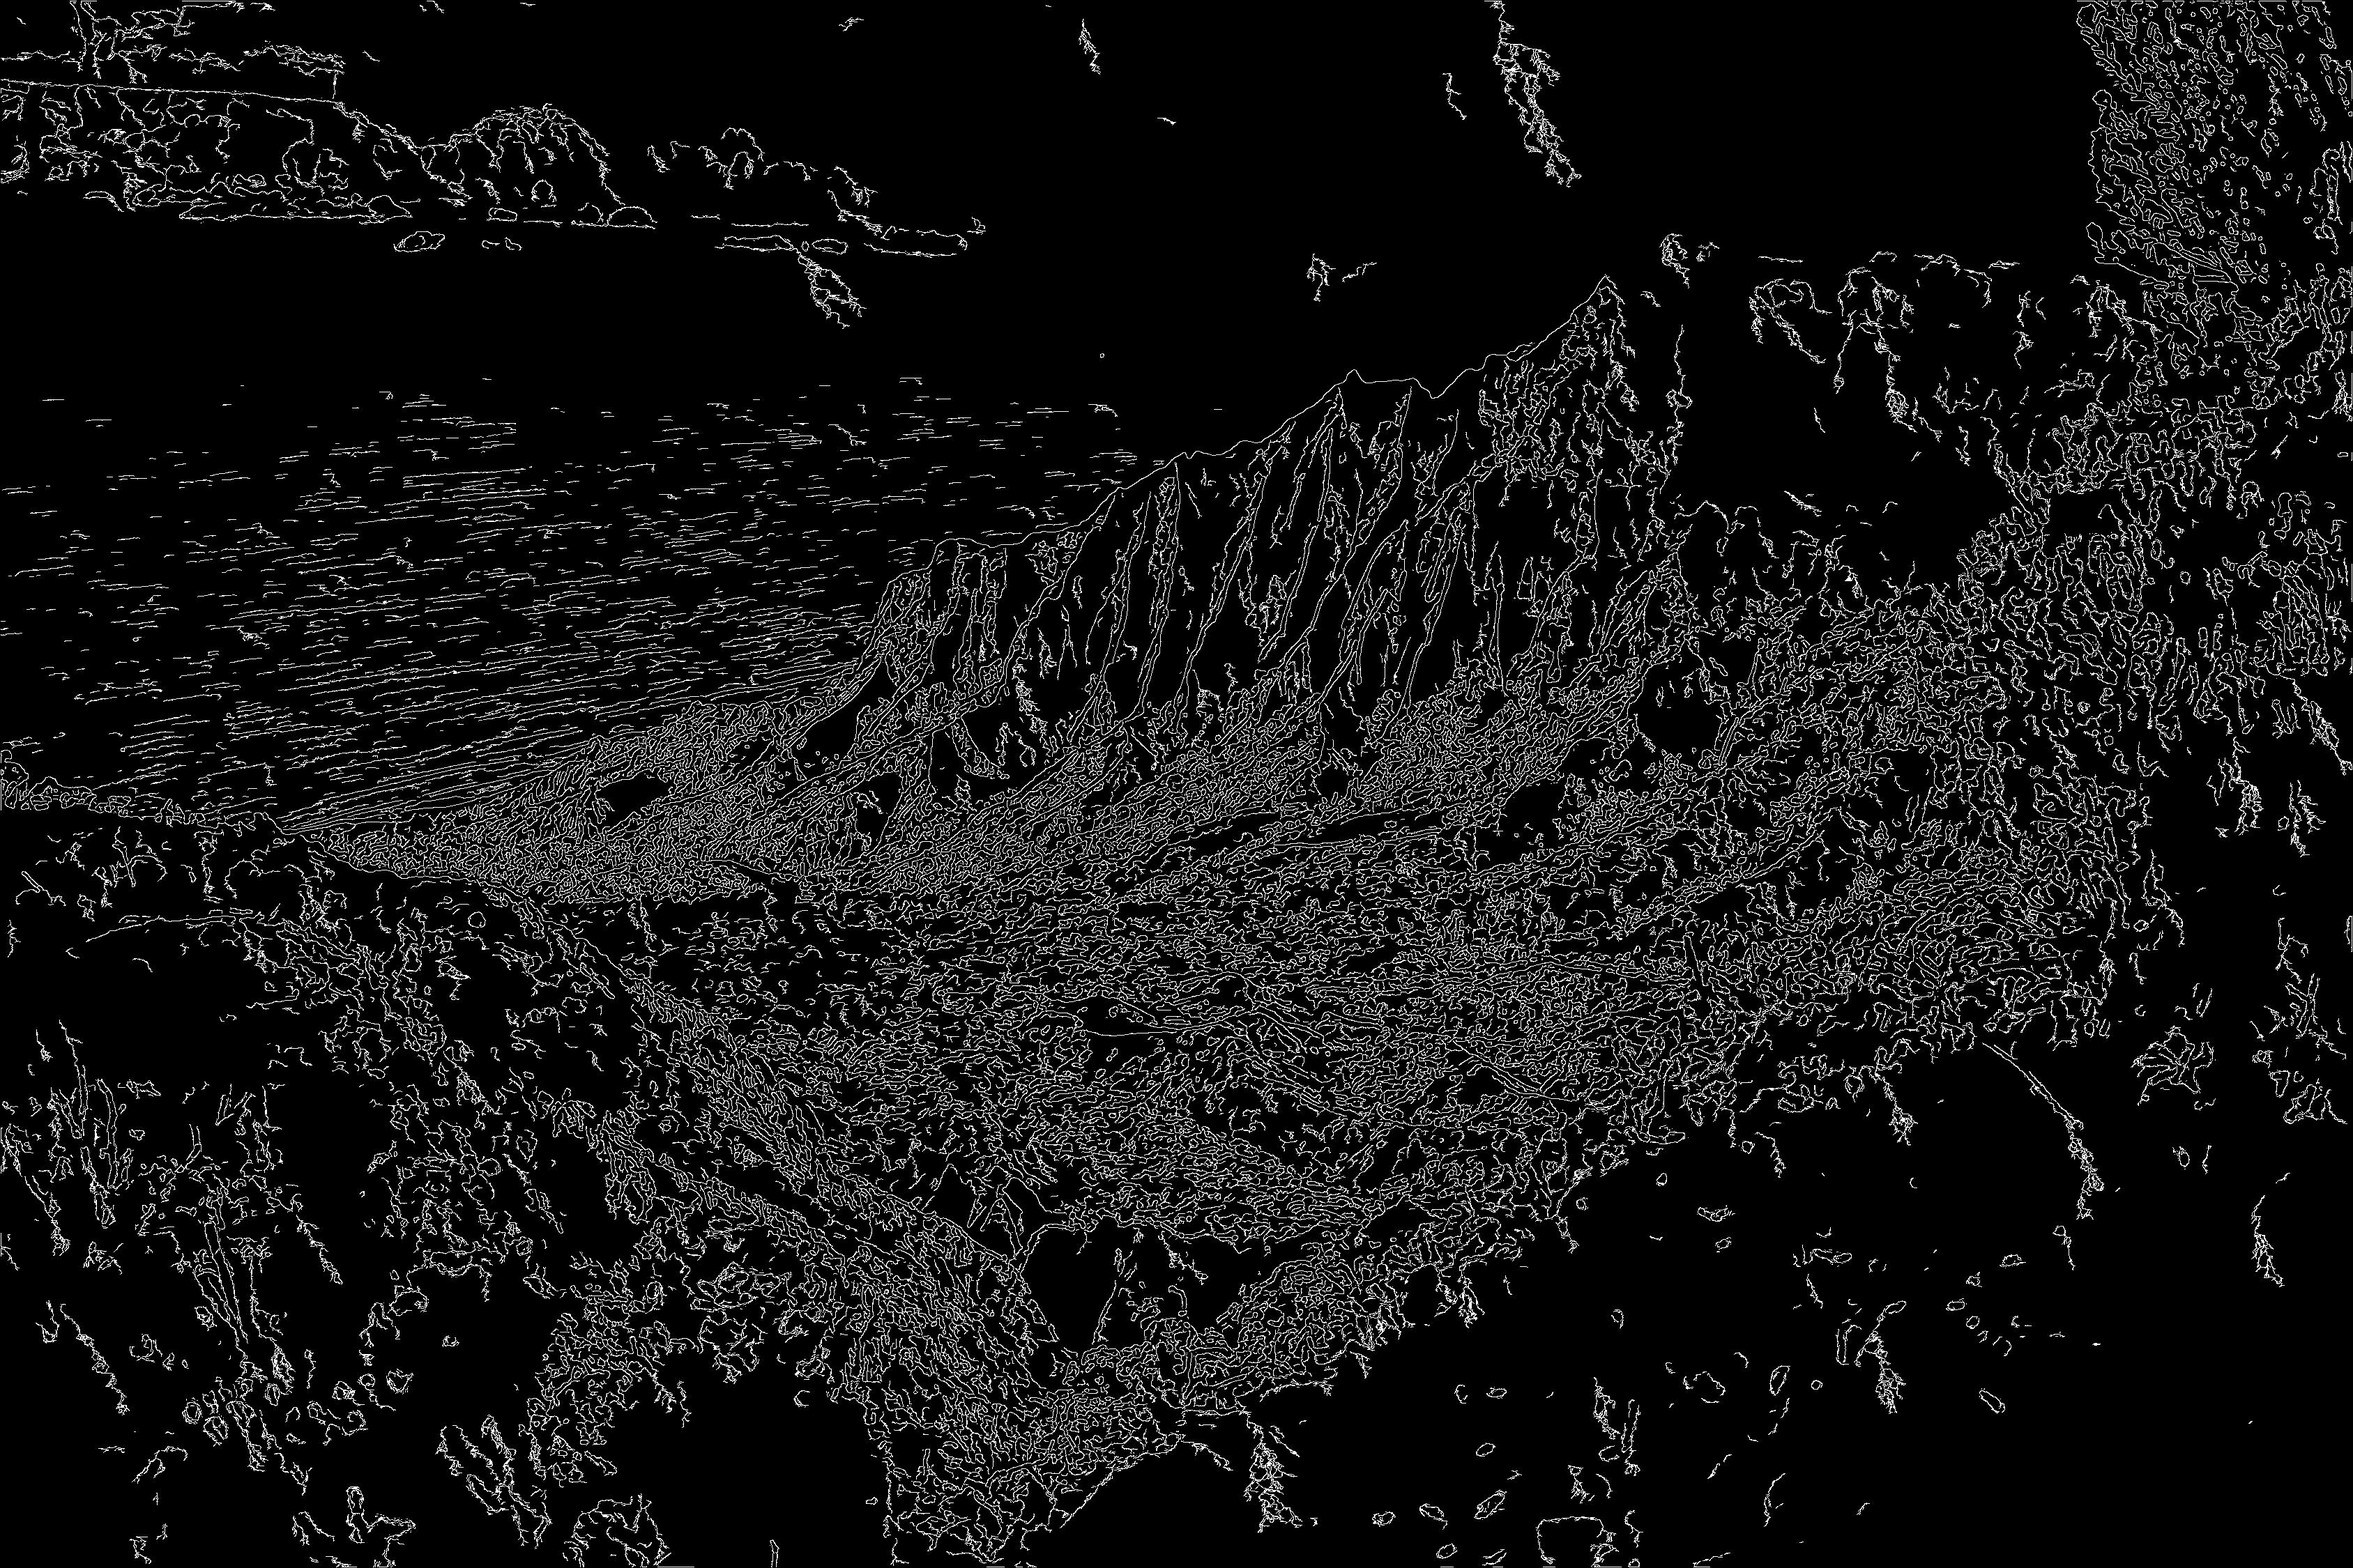
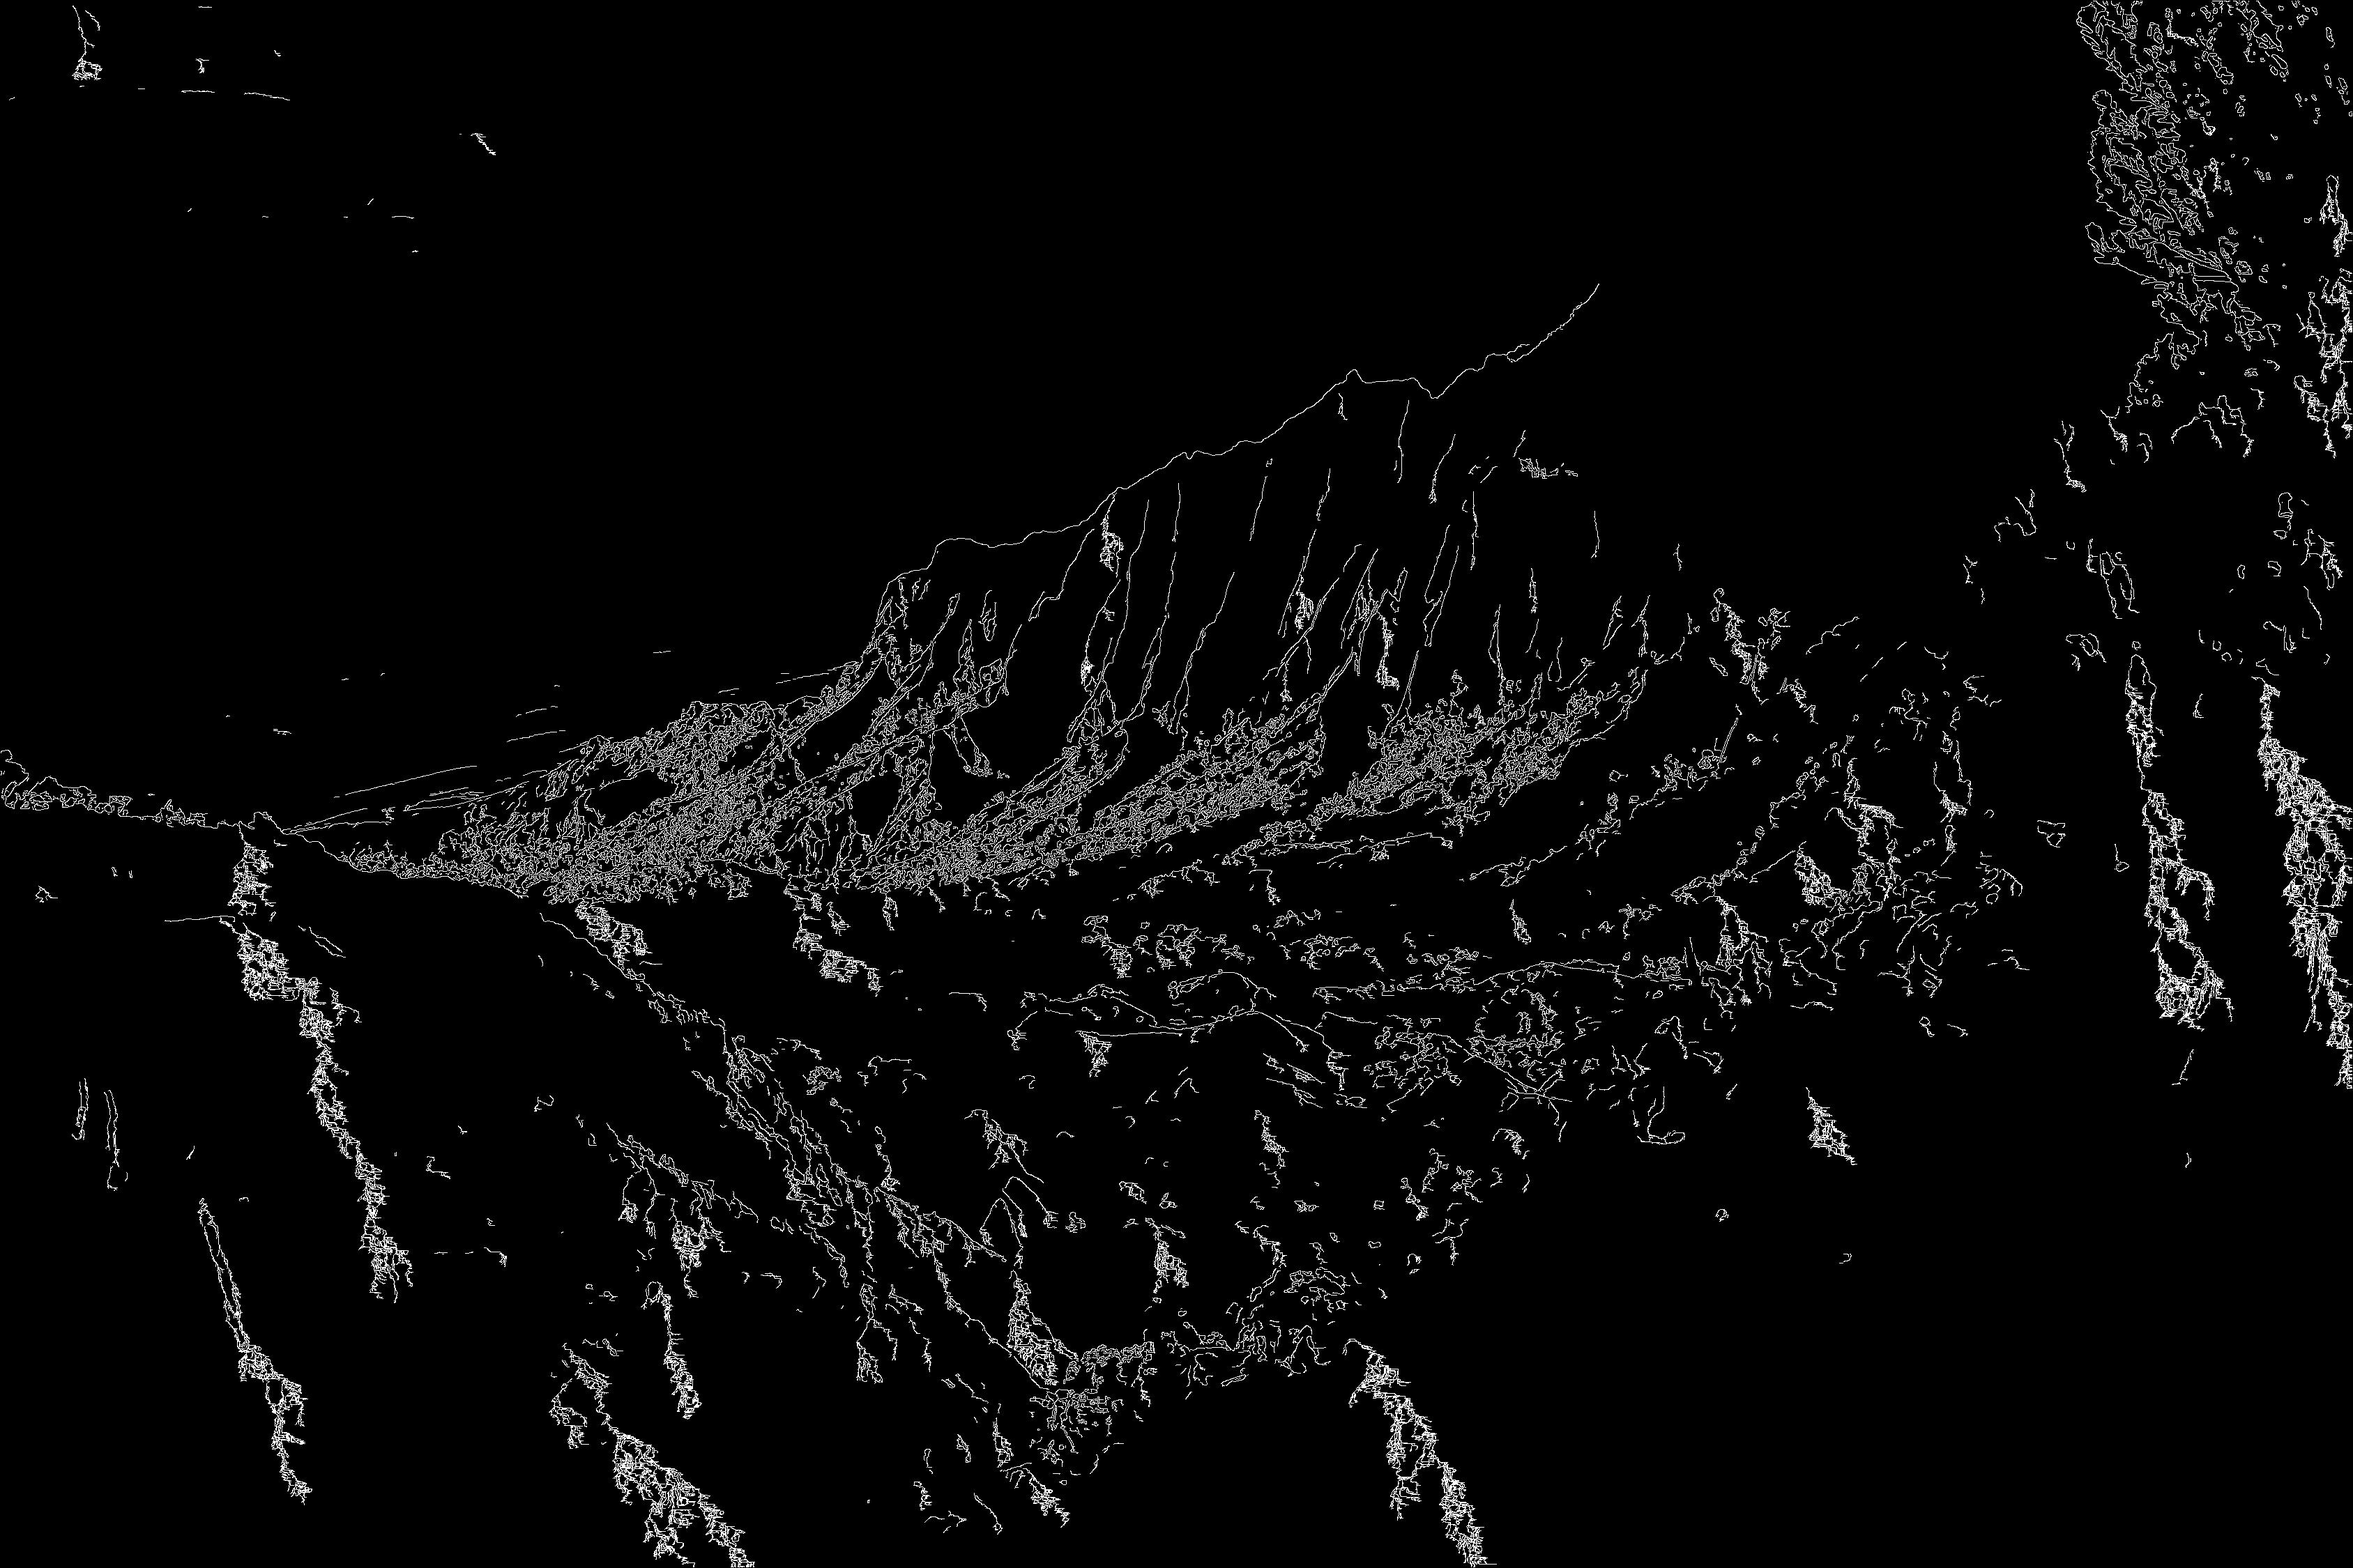
start from center in sobel

diff --git a/main.cpp b/main.cpp
@@ -261,9 +261,7 @@ float gaussian(float x, double sigma) {
 void applyBilateralFilter(BYTE *src, BYTE *dst, int diameter, float sigmaI, float sigmaS) {
     int half = diameter / 2;
     GridIterator iter(PARTITION, 5, PROCID);
-    int count = 0;
     for (std::pair<int,int> ij = iter.next(); ij.first != -1; ij = iter.next()) {
-        count++;
         int i = ij.first;
         int j = ij.second;
         float iFiltered = 0;
@@ -304,30 +302,37 @@ void applySobelFilter(BYTE *src, BYTE *gradient, float *direction) {
     int yFilter[3][3] = {{1, 2, 1}, {0, 0, 0}, {-1, -2, -1}};
     float maxGradient = 0.f;
     float *gradientTemp = new float[PITCH * HEIGHT];
-    for (int i = PARTITION.topPixel; i <= PARTITION.bottomPixel; i++) {
-        for (int j = PARTITION.leftPixel; j <= PARTITION.rightPixel; j++) {
-            if (i == 0 || i == HEIGHT - 1 || j == 0 || j == WIDTH - 1) {
-                continue;
+    GridIterator iter(PARTITION, 1, PROCID);
+    for (std::pair<int,int> ij = iter.next(); ij.first != -1; ij = iter.next()) {
+        int i = ij.first;
+        int j = ij.second;
+        if (i == 0 || i == HEIGHT - 1 || j == 0 || j == WIDTH - 1) {
+            if (iter.shouldCommunicate()) {
+                recvBlocks(src, PARTITION.neighborCount, TAG_OUTPUT_STEP1);
             }
-            float xGradient = 0;
-            float yGradient = 0;
-            for (int ii = 0; ii < 3; ii++) {
-                for (int jj = 0; jj < 3; jj++) {
-                    int neighbor_i = i + ii - 1;
-                    int neighbor_j = j + jj - 1;
-                    xGradient += xFilter[ii][jj] * src[neighbor_i * PITCH + neighbor_j];
-                    yGradient += yFilter[ii][jj] * src[neighbor_i * PITCH + neighbor_j];
-                }
+            continue;
+        }
+        float xGradient = 0;
+        float yGradient = 0;
+        for (int ii = 0; ii < 3; ii++) {
+            for (int jj = 0; jj < 3; jj++) {
+                int neighbor_i = i + ii - 1;
+                int neighbor_j = j + jj - 1;
+                xGradient += xFilter[ii][jj] * src[neighbor_i * PITCH + neighbor_j];
+                yGradient += yFilter[ii][jj] * src[neighbor_i * PITCH + neighbor_j];
             }
-            float grad = sqrtf(xGradient * xGradient + yGradient * yGradient);
+        }
+        float grad = sqrtf(xGradient * xGradient + yGradient * yGradient);
 
-            gradientTemp[i * PITCH + j] = grad;
-            maxGradient = std::max(grad, maxGradient);
+        gradientTemp[i * PITCH + j] = grad;
+        maxGradient = std::max(grad, maxGradient);
 
-            direction[i * PITCH + j] = atan2f(yGradient, xGradient) * 180.f / M_PI;
-            if (direction[i * PITCH + j] < 0) {
-                direction[i * PITCH + j] += 180.f;
-            }
+        direction[i * PITCH + j] = atan2f(yGradient, xGradient) * 180.f / M_PI;
+        if (direction[i * PITCH + j] < 0) {
+            direction[i * PITCH + j] += 180.f;
+        }
+        if (iter.shouldCommunicate()) {
+            recvBlocks(src, PARTITION.neighborCount, TAG_OUTPUT_STEP1);
         }
     }
     float maxGradientToSend = maxGradient;
@@ -558,7 +563,6 @@ void start(int argc, char* argv[]){
         }
         sendBlock(PARTITION.neigbhors[i], TAG_OUTPUT_STEP1);
     }
-    recvBlocks(dst, PARTITION.neighborCount, TAG_OUTPUT_STEP1);
 
     if(stage == 1){
         printf("stage 1: elapsed time for proc %d: %f\n", PROCID, MPI_Wtime() - startTime);

diff --git a/griditerator.cpp b/griditerator.cpp
@@ -1,8 +1,9 @@
 #include <algorithm>
 #include "griditerator.h"
 #include <iostream>
+#include <stdio.h>
 
-GridIterator::GridIterator(PartitionInfo partition, int borderWidth, int PROCID): partition(partition), borderWidth(borderWidth), innerFinished(false), PROCID(PROCID) {
+GridIterator::GridIterator(PartitionInfo partition, int borderWidth, int PROCID): partition(partition), borderWidth(borderWidth), innerFinished(false), PROCID(PROCID), communicate(false) {
     innerTopPixel = std::min(partition.topPixel + borderWidth, partition.bottomPixel);
     if (partition.neigbhors[1] == -1) {
         innerTopPixel = partition.topPixel;
@@ -29,20 +30,15 @@ std::pair<int, int> GridIterator::next() {
     if (i == -1) {
         return ret;
     }
-    // if (i == 1024 && j >= 842 && j <= 843) {
-    //     std::cout<<"i: " << i << " j: " << j << std::endl;
-    // }
-
     if ((i == innerBottomPixel && j == innerRightPixel) || innerFinished) {
-        if (PROCID == 0) {
-            std::cout <<"i: " << i << " j: " << j << " if condition\n";
-        }
         if (innerFinished) {
             j++;
+            communicate = false;
         } else {
             i = partition.topPixel;
             j = partition.leftPixel;
             innerFinished = true;
+            communicate = partition.neighborCount > 0;
         }
         bool done = false;
         for (; i <= partition.bottomPixel; i++) {
@@ -61,10 +57,6 @@ std::pair<int, int> GridIterator::next() {
             i = -1;
         }
     } else {
-    // if (i == 1024 && j >= 842 && j <= 843) {
-    //     std::cout <<"i: " << i << " j: " << j << " else condition\n";
-    // }
-        
         j++;
         if (j > innerRightPixel) {
             i++;
@@ -72,4 +64,8 @@ std::pair<int, int> GridIterator::next() {
         }
     }
     return ret;
+}
+
+bool GridIterator::shouldCommunicate() {
+    return communicate;
 }

diff --git a/griditerator.h b/griditerator.h
@@ -16,10 +16,11 @@ private:
     int innerLeftPixel;
     int innerRightPixel;
     int PROCID;
+    bool communicate;
 public:
     GridIterator(PartitionInfo partition, int borderWidth, int PROCID);
     std::pair<int, int> next();
-    // bool shouldCommunicate();
+    bool shouldCommunicate();
 };
 
 #endif
